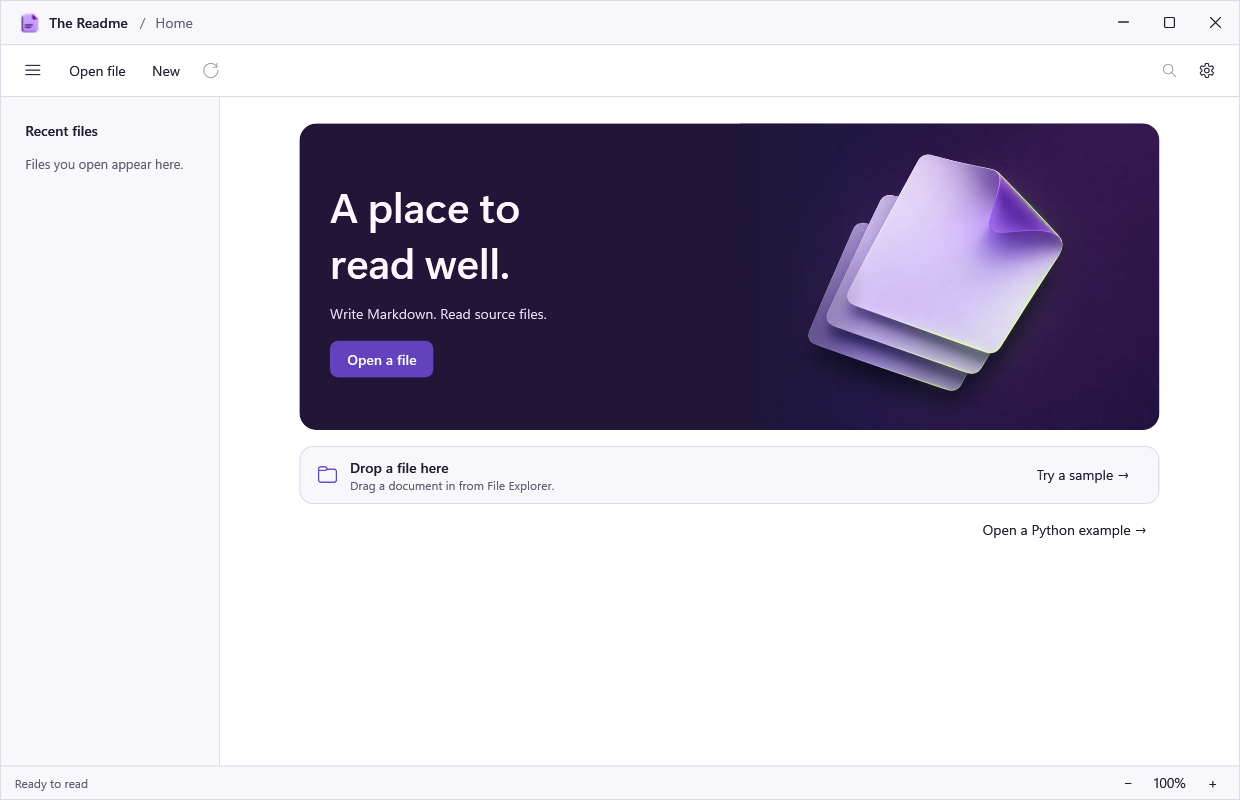
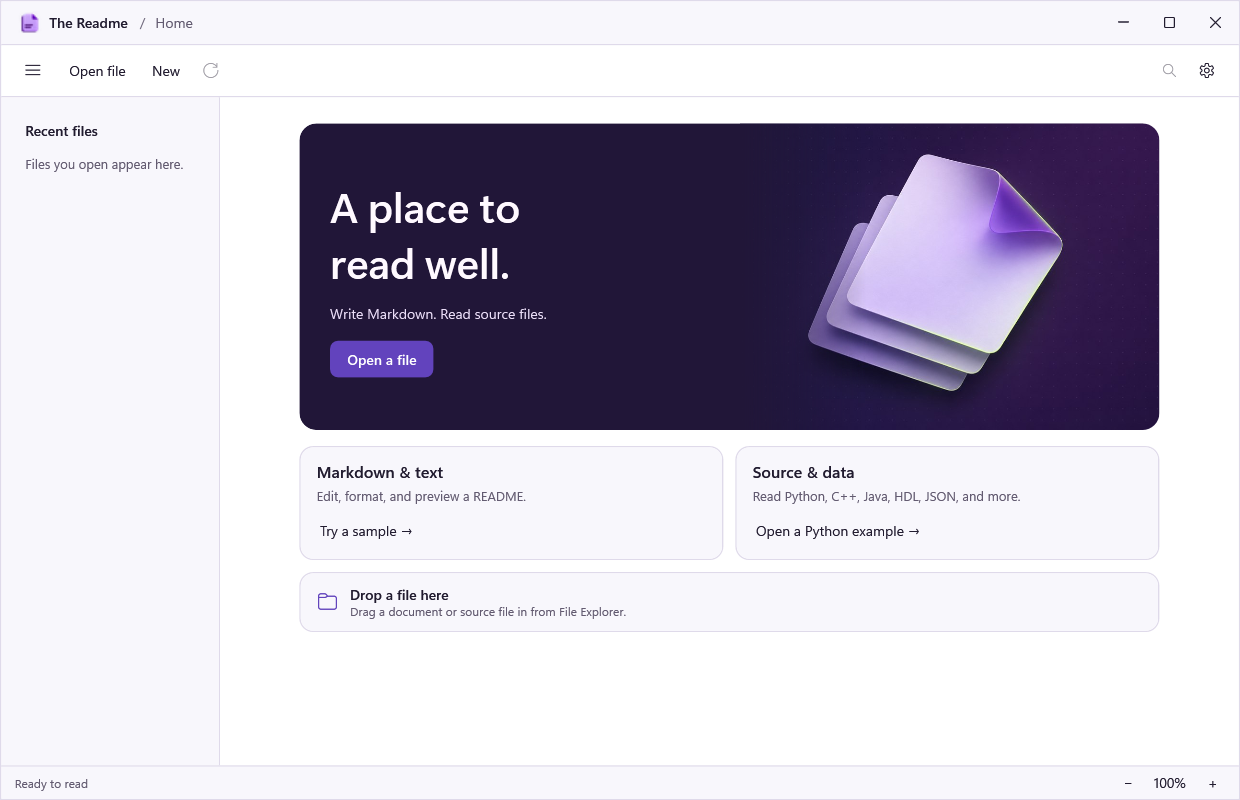
Refresh the README hero and make Home samples easier to find

diff --git a/src/TheReadme/MainWindow.xaml b/src/TheReadme/MainWindow.xaml
@@ -230,17 +230,36 @@
                   </StackPanel>
                 </Grid>
               </Border>
-              <Border Grid.Row="1" Background="{DynamicResource Base}" BorderBrush="{DynamicResource Line}" BorderThickness="1" CornerRadius="13" Margin="0,16,0,0" Padding="16,10">
+              <Grid Grid.Row="1" Margin="0,16,0,0">
+                <Grid.ColumnDefinitions><ColumnDefinition Width="*"/><ColumnDefinition Width="12"/><ColumnDefinition Width="*"/></Grid.ColumnDefinitions>
+                <Border Background="{DynamicResource Base}" BorderBrush="{DynamicResource Line}" BorderThickness="1" CornerRadius="13" Padding="16,13">
+                  <DockPanel>
+                    <Button DockPanel.Dock="Bottom" Content="Try a sample →" Click="OpenSample" HorizontalAlignment="Left" Margin="-10,7,0,0"/>
+                    <StackPanel>
+                      <TextBlock Text="Markdown &amp; text" FontSize="16" FontWeight="SemiBold"/>
+                      <TextBlock Text="Edit, format, and preview a README." Foreground="{DynamicResource Muted}" FontSize="13" TextWrapping="Wrap" Margin="0,5,0,0"/>
+                    </StackPanel>
+                  </DockPanel>
+                </Border>
+                <Border Grid.Column="2" Background="{DynamicResource Base}" BorderBrush="{DynamicResource Line}" BorderThickness="1" CornerRadius="13" Padding="16,13">
+                  <DockPanel>
+                    <Button DockPanel.Dock="Bottom" Content="Open a Python example →" Click="OpenCodeSample" HorizontalAlignment="Left" Margin="-10,7,0,0"/>
+                    <StackPanel>
+                      <TextBlock Text="Source &amp; data" FontSize="16" FontWeight="SemiBold"/>
+                      <TextBlock Text="Read Python, C++, Java, HDL, JSON, and more." Foreground="{DynamicResource Muted}" FontSize="13" TextWrapping="Wrap" Margin="0,5,0,0"/>
+                    </StackPanel>
+                  </DockPanel>
+                </Border>
+              </Grid>
+              <Border Grid.Row="2" Background="{DynamicResource Base}" BorderBrush="{DynamicResource Line}" BorderThickness="1" CornerRadius="13" Margin="0,12,0,0" Padding="16,11">
                 <DockPanel>
                   <TextBlock DockPanel.Dock="Left" FontFamily="Segoe Fluent Icons, Segoe MDL2 Assets" Text="&#xE8B7;" FontSize="19" VerticalAlignment="Center" Margin="1,0,13,0" Foreground="{DynamicResource Accent}"/>
-                  <Button DockPanel.Dock="Right" Content="Try a sample →" Click="OpenSample" Margin="8,0,0,0"/>
                   <StackPanel VerticalAlignment="Center">
                     <TextBlock Text="Drop a file here" FontWeight="SemiBold"/>
-                    <TextBlock Text="Drag a document in from File Explorer." Foreground="{DynamicResource Muted}" FontSize="12" TextWrapping="Wrap"/>
+                    <TextBlock Text="Drag a document or source file in from File Explorer." Foreground="{DynamicResource Muted}" FontSize="12" TextWrapping="Wrap"/>
                   </StackPanel>
                 </DockPanel>
               </Border>
-              <Button Grid.Row="2" Content="Open a Python example →" Click="OpenCodeSample" HorizontalAlignment="Right" Margin="0,8,0,0"/>
             </Grid>
           </ScrollViewer>
 

diff --git a/README.md b/README.md
@@ -1,22 +1,28 @@
 <div align="center">
 
-<img src="assets/readme-icon.png" alt="The Readme app icon, a folded lilac document" width="98">
+<img src="assets/readme-banner.jpg" alt="The Readme, a Windows Markdown editor, shown with a folded lilac document and a source-code panel" width="100%">
 
 # The Readme
 
-**A lightweight Markdown editor and source-file viewer for Windows.**
+**A native Windows Markdown editor with live preview and a read-only source viewer.**
+
+**~2.6 MB per installer · 134 recognized extensions · 7 themes plus System**
 
 [![Windows CI](https://github.com/shardapps/the-readme/actions/workflows/ci.yml/badge.svg)](https://github.com/shardapps/the-readme/actions/workflows/ci.yml)
 [![Latest release](https://img.shields.io/github/v/release/shardapps/the-readme?color=6243bd)](https://github.com/shardapps/the-readme/releases/latest)
 [![License](https://img.shields.io/badge/license-Apache%202.0-6243bd)](LICENSE)
 
-[Download editor alpha](https://github.com/shardapps/the-readme/releases/tag/v1.1.0-alpha.1) · [Download stable viewer](https://github.com/shardapps/the-readme/releases/latest) · [Keyboard shortcuts](#keyboard-shortcuts) · [Contribute](CONTRIBUTING.md)
+[Download editor alpha](https://github.com/shardapps/the-readme/releases/tag/v1.1.0-alpha.1) · [Download stable viewer](https://github.com/shardapps/the-readme/releases/latest) · [See all formats](#supported-file-formats) · [Keyboard shortcuts](#keyboard-shortcuts)
 
 </div>
 
-The Readme by Shard Apps is a free, open-source Windows app for writing Markdown and plain text and reading source files. Use it as a README editor, a local Markdown previewer, or a quick way to inspect Python, C, C++, Java, HDL, and other code files. The native desktop app works offline using the shared .NET Desktop Runtime.
+The Readme by Shard Apps is a free, Apache 2.0 desktop app for editing `README.md` and plain text, previewing Markdown as you type, and inspecting local files. Open Python, C, C++, Java, HDL, Rust, JavaScript, JSON, CSV, and many other text formats from the same workspace.
 
 ![The Readme home window with a lilac folded-paper illustration, recent files, drag and drop, and interactive samples](docs/screenshots/welcome.png)
+
+## A small download for Windows
+
+The x64 and Arm64 setup EXEs are about **2.6 MB each**. The app uses native Windows Presentation Foundation (WPF) controls and the shared Microsoft .NET 10 Windows Desktop Runtime. Document editing and preview work offline after that runtime is installed. File reads and Markdown parsing run in the background, while the native reading surface adjusts to the space available.
 
 ## Write Markdown and plain text
 
@@ -73,15 +79,68 @@ readme .\src\main.cpp
 | `Ctrl++` / `Ctrl+−` / `Ctrl+0` | Increase, decrease, or reset zoom |
 | `Ctrl+mouse wheel` | Zoom in the document workspace |
 
-## Supported files and requirements
+## Supported file formats
 
-| Files | What you can do |
+The app recognizes **134 extensions** and **17 common project filenames**. It also opens other valid UTF-8 or Unicode text files in read-only mode. Supported text files can be up to **2 MiB**. Use UTF-8 or Unicode with a byte-order mark.
+
+| Editable formats | File extensions and names |
 | --- | --- |
-| Markdown `.md`, `.markdown`, `.mdown`, `.mkd`, `.mkdn`, `.mdwn`, `.mdtxt` and project documents named `README`, `LICENSE`, or `CHANGELOG` | Read, edit, format, and save |
-| Plain text `.txt` and `.text` | Edit and save as plain text, or use Save As to create a Markdown copy for formatting |
-| Source files `.py`, `.c`, `.h`, `.cpp`, `.hpp`, `.java`, `.cs`, `.js`, `.ts`, `.rs`, `.go`, `.swift`, `.kt`, `.rb`, `.php`, `.hdl`, `.sv`, `.vhdl`, and more | Read, search, copy, wrap lines, and go to a line |
-| Scripts, build files, web source, data, and configuration | Read-only inspection of files such as `Makefile`, `Dockerfile`, `.sh`, `.ps1`, `.html`, `.svg`, `.json`, `.csv`, `.yaml`, `.toml`, `.xml`, and `.log` |
-| Other text files | Read-only view when the file can be decoded as text |
+| Markdown | `.md`, `.markdown`, `.mdown`, `.mkd`, `.mkdn`, `.mdwn`, `.mdtxt` |
+| Project documents | `README`, `LICENSE`, `LICENCE`, `CHANGELOG`, `NEWS`, `NOTICE`, `AUTHORS`, `CONTRIBUTING`, `COPYING`, `SECURITY` |
+| Plain text | `.txt`, `.text`. Save a Markdown copy to apply formatting. |
+
+The read-only viewer supports search, selection and copy, line wrapping, and **Go to line**. It handles programming languages, hardware description languages, shell scripts, HTML and stylesheets, data and configuration files, logs, patches, and build files.
+
+<details>
+<summary>Show every recognized read-only format</summary>
+
+| Format family | File extensions and names |
+| --- | --- |
+| Python | `.py`, `.pyw`, `.pyi` |
+| C | `.c`, `.h` |
+| C++ | `.cpp`, `.cc`, `.cxx`, `.hpp`, `.hh`, `.hxx`, `.ipp`, `.inl`, `.ixx` |
+| Java | `.java` |
+| C# | `.cs`, `.csx` |
+| JavaScript | `.js`, `.jsx`, `.mjs`, `.cjs` |
+| TypeScript | `.ts`, `.tsx`, `.mts`, `.cts` |
+| Rust | `.rs` |
+| Go | `.go` |
+| Swift | `.swift` |
+| Kotlin | `.kt`, `.kts` |
+| Ruby | `.rb`, `.rake`, `Gemfile`, `Rakefile` |
+| PHP | `.php`, `.phtml` |
+| Lua | `.lua` |
+| R | `.r` |
+| Dart | `.dart` |
+| Scala | `.scala`, `.sc` |
+| F# | `.fs`, `.fsx`, `.fsi` |
+| Visual Basic | `.vb`, `.vbs` |
+| Objective-C | `.m`, `.mm` |
+| Assembly | `.asm`, `.s`, `.inc` |
+| Haskell | `.hs`, `.lhs` |
+| Elixir | `.ex`, `.exs` |
+| Zig | `.zig` |
+| Shell | `.sh`, `.bash`, `.zsh`, `.fish`, `.bashrc`, `.zshrc` |
+| PowerShell | `.ps1`, `.psm1`, `.psd1` |
+| Batch | `.bat`, `.cmd` |
+| HDL | `.hdl` |
+| Verilog | `.v`, `.vh`, `.sv`, `.svh` |
+| VHDL | `.vhd`, `.vhdl` |
+| SQL | `.sql` |
+| HTML | `.html`, `.htm`, `.xhtml` |
+| Stylesheet | `.css`, `.scss`, `.sass`, `.less` |
+| XML | `.xml`, `.xaml`, `.svg`, `.plist`, `.csproj`, `.vbproj`, `.fsproj`, `.props`, `.targets`, `.resx`, `.slnx` |
+| JSON | `.json`, `.jsonc`, `.jsonl`, `.geojson`, `.ipynb` |
+| YAML | `.yaml`, `.yml` |
+| TOML | `.toml` |
+| Configuration | `.ini`, `.cfg`, `.conf`, `.editorconfig`, `.gitignore`, `.gitattributes`, `.dockerignore`, `.env`, `.lock` |
+| Delimited text | `.csv`, `.tsv`, `.psv` |
+| Log | `.log`, `.out` |
+| Diff | `.diff`, `.patch` |
+| Text markup | `.rst`, `.adoc`, `.asciidoc`, `.org`, `.tex`, `.typ` |
+| Build file | `Dockerfile`, `Containerfile`, `Makefile`, `GNUmakefile`, `CMakeLists.txt`, `.mk`, `.cmake`, `.gradle`, `.sln` |
+
+</details>
 
 ![Python file in the read-only source workspace, with search, wrapping, and go-to-line controls](docs/screenshots/source.png)
 
@@ -91,7 +150,7 @@ readme .\src\main.cpp
 
 **Can I open code files without running them?** Yes. Code, scripts, HTML, and configuration open as inert text. Source formats stay read-only, so the format and save controls are reserved for Markdown and plain text.
 
-**Which Windows versions and encodings does it support?** Windows 11 x64 and Arm64 are the primary targets. Setup permits Windows 10 22H2 x64 (build 19045) with the matching .NET Desktop Runtime. Files use UTF-8 or Unicode with a byte-order mark and are limited to 2 MB for opening and saving.
+**Which Windows versions does it support?** Windows 11 x64 and Arm64 are the primary targets. Setup permits Windows 10 22H2 x64 (build 19045) with the matching .NET Desktop Runtime.
 
 ## Open source
 

diff --git a/docs/ARTWORK.md b/docs/ARTWORK.md
@@ -1,6 +1,10 @@
 # Artwork
 
-The welcome illustration in [cover.jpg](../assets/cover.jpg) and the app icon in [readme-icon.png](../assets/readme-icon.png) were generated with OpenAI ImageGen. The app and installer use the multiresolution [readme.ico](../assets/readme.ico). Screenshots in the README come from the running WPF UI.
+The [README banner](../assets/readme-banner.jpg), welcome illustration in [cover.jpg](../assets/cover.jpg), and app icon in [readme-icon.png](../assets/readme-icon.png) were generated with OpenAI ImageGen. The app and installer use the multiresolution [readme.ico](../assets/readme.ico). Screenshots in the README come from the running WPF UI.
+
+## README banner prompt
+
+> Make a premium GitHub repository header image for a real Windows desktop application by Shard Apps. Very wide panoramic composition, approximately 3.2:1. Refined editorial product branding. Background deep indigo, near-black plum, with a subtle tiny dotted grid and a faint cool blue glow on the far right. On the right half, a sculptural clean lilac sheet of paper with a geometric folded jewel-violet corner, slightly stacked on two sheets, lit with a restrained faint mint rim. Behind that stack on far right, a thin translucent dark glass panel with a few small abstract color-coded source-code lines and geometric brackets. On the left, typeset exactly two lines with perfect spelling: 'The Readme' in large warm white modern sans, and 'Markdown editor for Windows' underneath in smaller muted lilac. Large open margins. Keep all subjects and text centered vertically in the middle 56% of the image so it can crop at top and bottom into an ultrawide GitHub banner. No logo, no watermark, no other words or labels, no decorative badges, no fake buttons. Deliberate, understated and visually sharp.
 
 ## Welcome illustration prompt
 
